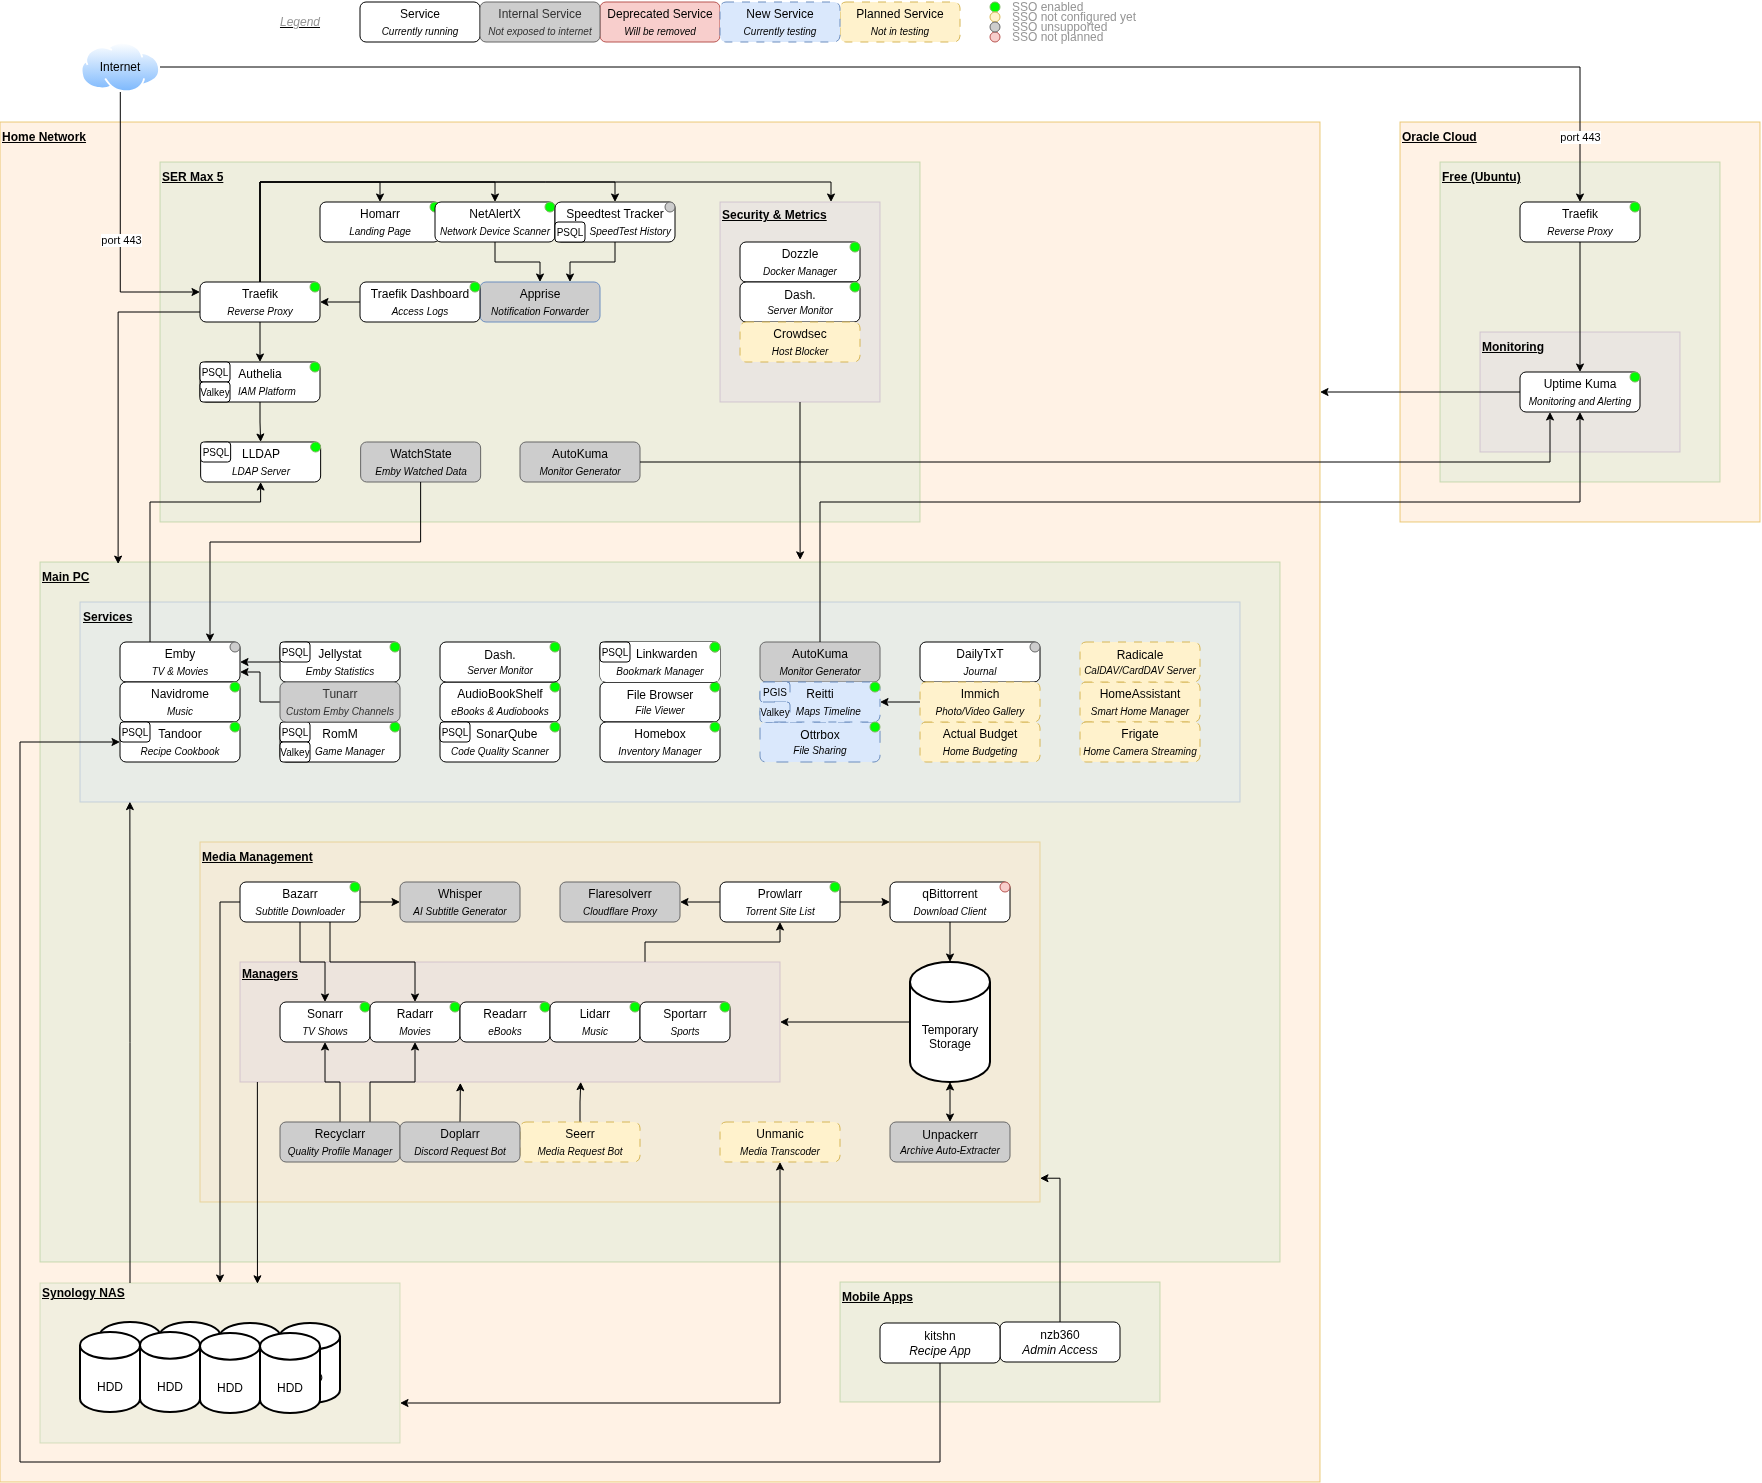
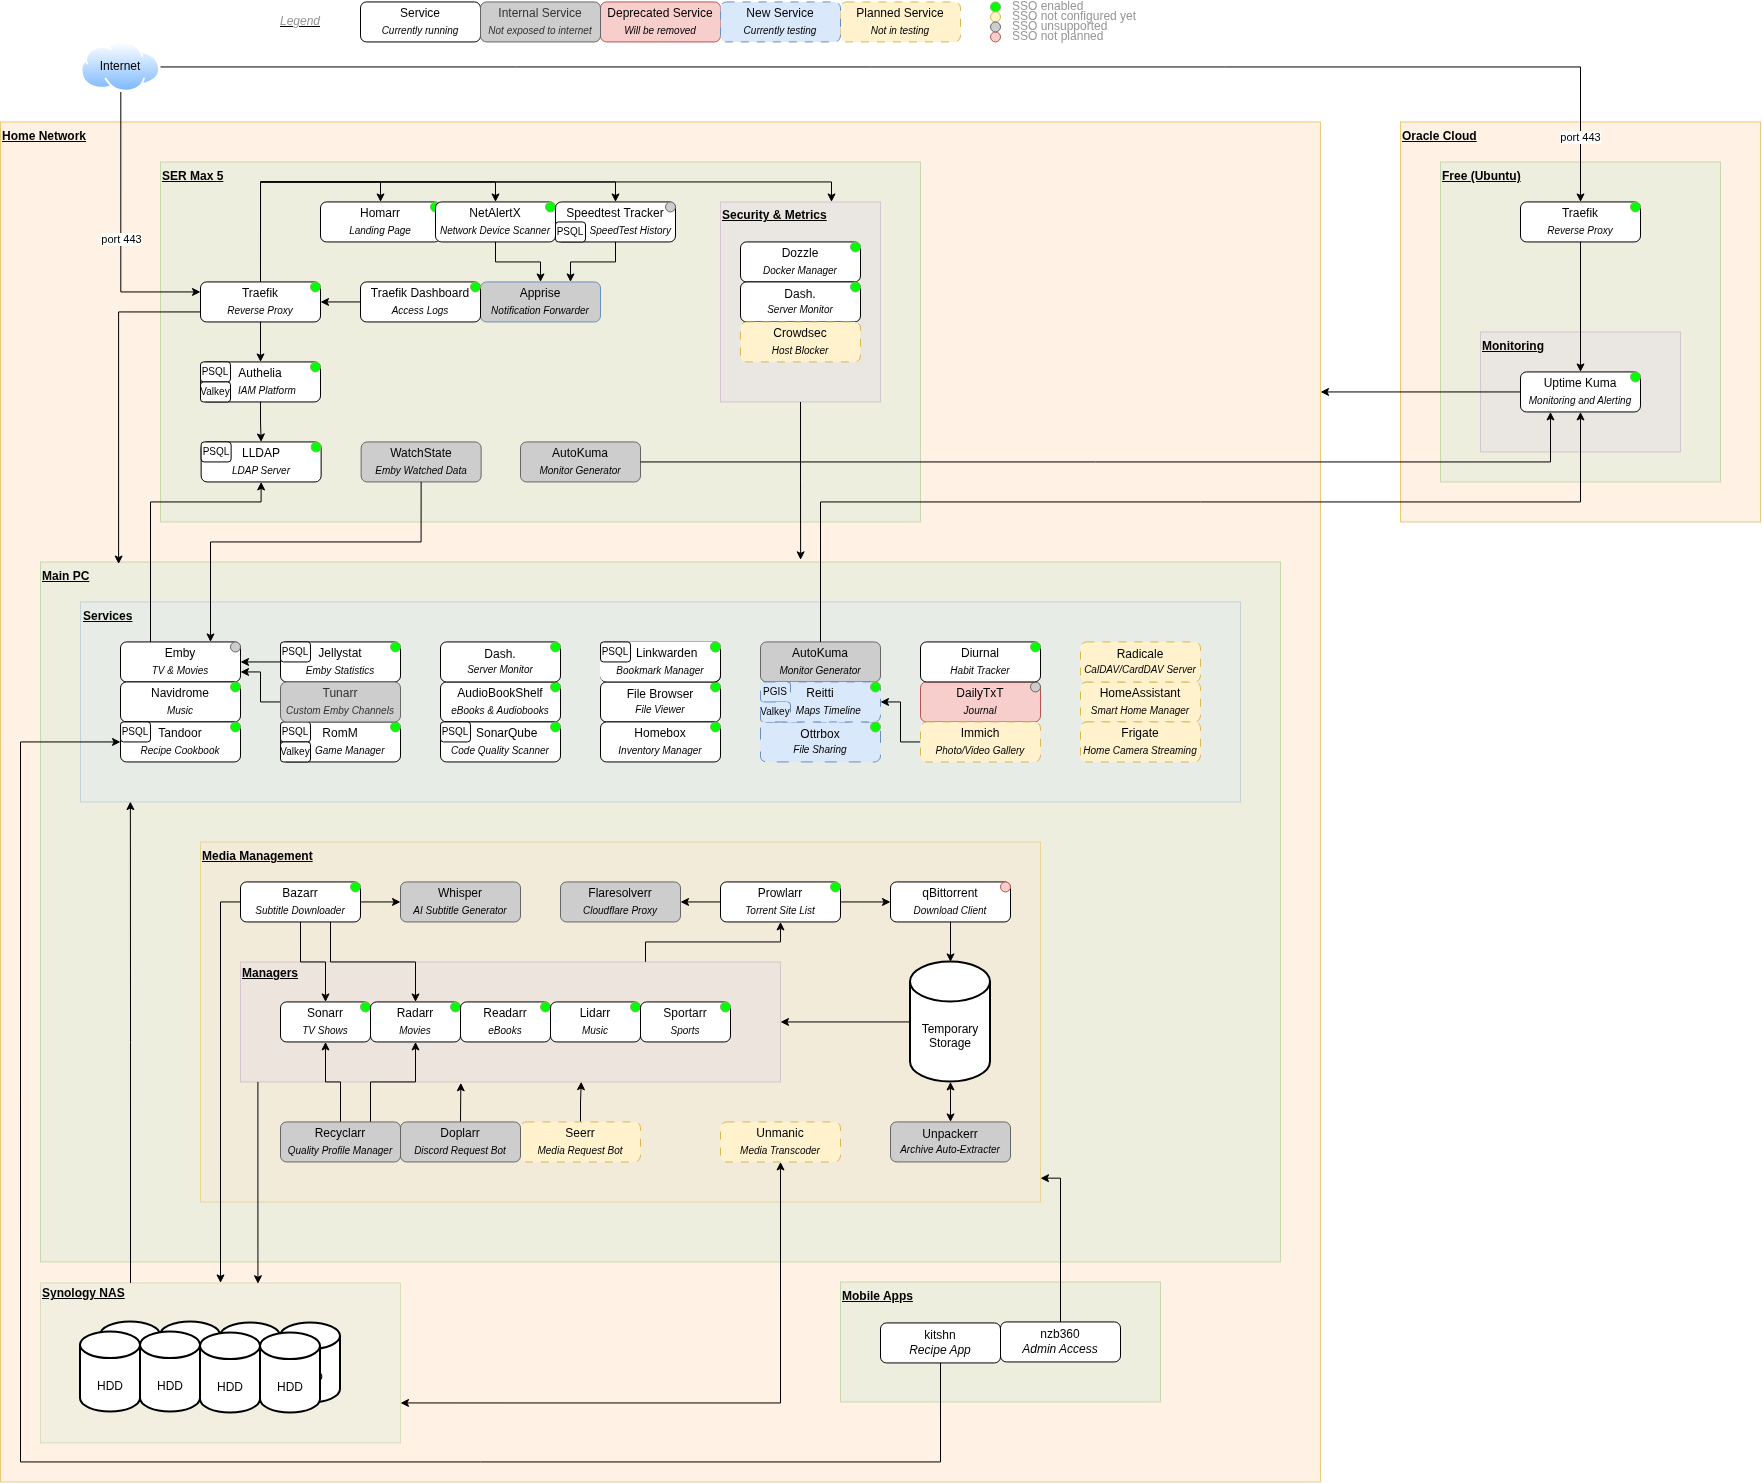
[Diurnal] Added application

diff --git a/README.md b/README.md
@@ -38,6 +38,7 @@ The following services forward username/password information from the user's gro
 The following services allow you to login/create an account using the IdP:
 
 - AudioBookShelf
+- Diurnal
 - Homarr
 - Linkwarden
 - RomM
@@ -89,10 +90,15 @@ For the following containers, a new backup can be generated by going to **System
 
 The following containers have no scheduled backup, but there is an option in the UI to export one:
 
+- `diurnal`
+
+For the `diurnal` container, the backup can be performed on the **Settings** page for any single user. For a full backup of all users,
+see the DB option below.
+
 - `tandoor`
 
-For the `tandoor` container, the backup can be generated by clicking on the toolbox icon in the toolbar, selecting *
-*Export**, selecting the option
+For the `tandoor` container, the backup can be generated by clicking on the toolbox icon in the toolbar, selecting
+**Export**, selecting the option
 **All recipes**, then pressing the **Export** button.
 
 #### Manual Backups
@@ -188,6 +194,26 @@ Finally, start up the new DB container, restore the backup, then start the remai
 docker compose -f docker-compose-ser.yml up --build -d authelia-db --wait
 cat backup_authelia.sql | docker compose -f docker-compose-ser.yml exec -T authelia-db psql -U ${AUTHELIA_DB_USER} -d ${AUTHELIA_DB_NAME}
 docker compose -f docker-compose-ser.yml up --build -d authelia authelia-cache
+```
+
+### Diurnal DB
+
+Take backup of the current database, then shut the Authelia containers down:
+
+```bash
+docker compose exec diurnal-db pg_dump -U ${DIURNAL_DB_USER} -d ${DIURNAL_DB_NAME} -cC > backup_diurnal.dump
+docker compose down diurnal diurnal-db
+```
+
+Upgrade the version of [PostgreSQL](https://registry.hub.docker.com/_/postgres) for `diurnal-db`.
+Next, delete the storage for `diurnal-db` (make sure to copy this directory/volume first).
+
+Finally, start up the new DB container, restore the backup, then start the remaining Authelia containers:
+
+```bash
+docker compose up --build -d diurnal-db --wait
+docker compose exec -T diurnal-db pg_restore -U ${DIURNAL_DB_USER} -d ${DIURNAL_DB_NAME} --clean --if-exists --exit-on-error < backup_diurnal.dump
+docker compose up --build -d diurnal
 ```
 
 ### Reitti DB
@@ -356,6 +382,7 @@ docker compose up --build -d tandoor
 
 ```shell
 # Take backups
+docker compose exec diurnal-db pg_dump -U ${DIURNAL_DB_USER} -d ${DIURNAL_DB_NAME} -cC > backup_diurnal.dump
 docker compose exec jellystat-db pg_dump -U ${JELLYSTAT_DB_USER} -d ${JELLYSTAT_DB_NAME} -cC > backup_jellystat.sql
 docker compose exec linkwarden-db pg_dump -U ${LINKWARDEN_DB_USER} -d ${LINKWARDEN_DB_NAME} -cC > backup_linkwarden.sql
 docker compose exec reitti-db pg_dump -U ${REITTI_DB_USER} -d ${REITTI_DB_NAME} -cC > backup_reitti.sql
@@ -364,16 +391,17 @@ docker compose exec sonarqube-db pg_dump -U ${SONARQUBE_DB_USER} -d ${SONARQUBE_
 docker compose exec tandoor-db pg_dump -U ${TANDOOR_DB_USER} -d ${TANDOOR_DB_NAME} -cC > backup_tandoor.sql
 
 # Shut down all containers
-docker compose down jellystat jellystat-db linkwarden linkwarden-db reitti reitti-db reitti-cache reitti-tile-cache romm romm-cache romm-db sonarqube sonarqube-db tandoor tandoor-db
+docker compose down diurnal diurnal-db jellystat jellystat-db linkwarden linkwarden-db reitti reitti-db reitti-cache reitti-tile-cache romm romm-cache romm-db sonarqube sonarqube-db tandoor tandoor-db
 
 # Update for new PostgreSQL version
-sudo rm -rf ./storage/jellystat-db/ ./storage/linkwarden-db/ ./storage/reitti-db/ ./storage/romm-db/ ./storage/sonarqube-db/ ./storage/tandoor-db/
+sudo rm -rf ./storage/diurnal-db/ ./storage/jellystat-db/ ./storage/linkwarden-db/ ./storage/reitti-db/ ./storage/romm-db/ ./storage/sonarqube-db/ ./storage/tandoor-db/
 docker compose pull
 
 # Start DB containers
-docker compose up --build -d jellystat-db linkwarden-db reitti-db romm-db sonarqube-db tandoor-db --wait
+docker compose up --build -d diurnal-db jellystat-db linkwarden-db reitti-db romm-db sonarqube-db tandoor-db --wait
 
 # Restore backups
+docker compose exec -T diurnal-db pg_restore -U ${DIURNAL_DB_USER} -d ${DIURNAL_DB_NAME} --clean --if-exists --exit-on-error < backup_diurnal.dump
 cat backup_jellystat.sql | docker compose exec -T jellystat-db psql -U ${JELLYSTAT_DB_USER}
 cat backup_linkwarden.sql | docker compose exec -T linkwarden-db psql -U ${LINKWARDEN_DB_USER}
 cat backup_reitti.sql | docker compose exec -T reitti-db psql -U ${REITTI_DB_USER}
@@ -382,7 +410,7 @@ cat backup_sonarqube.sql | docker compose exec -T sonarqube-db psql -U ${SONARQU
 cat backup_tandoor.sql | docker compose exec -T tandoor-db psql -U ${TANDOOR_DB_USER}
 
 # Start services
-docker compose up --build -d jellystat linkwarden reitti reitti-cache reitti-tile-cache romm romm-cache sonarqube tandoor
+docker compose up --build -d diurnal jellystat linkwarden reitti reitti-cache reitti-tile-cache romm romm-cache sonarqube tandoor
 ```
 
 #### SER
